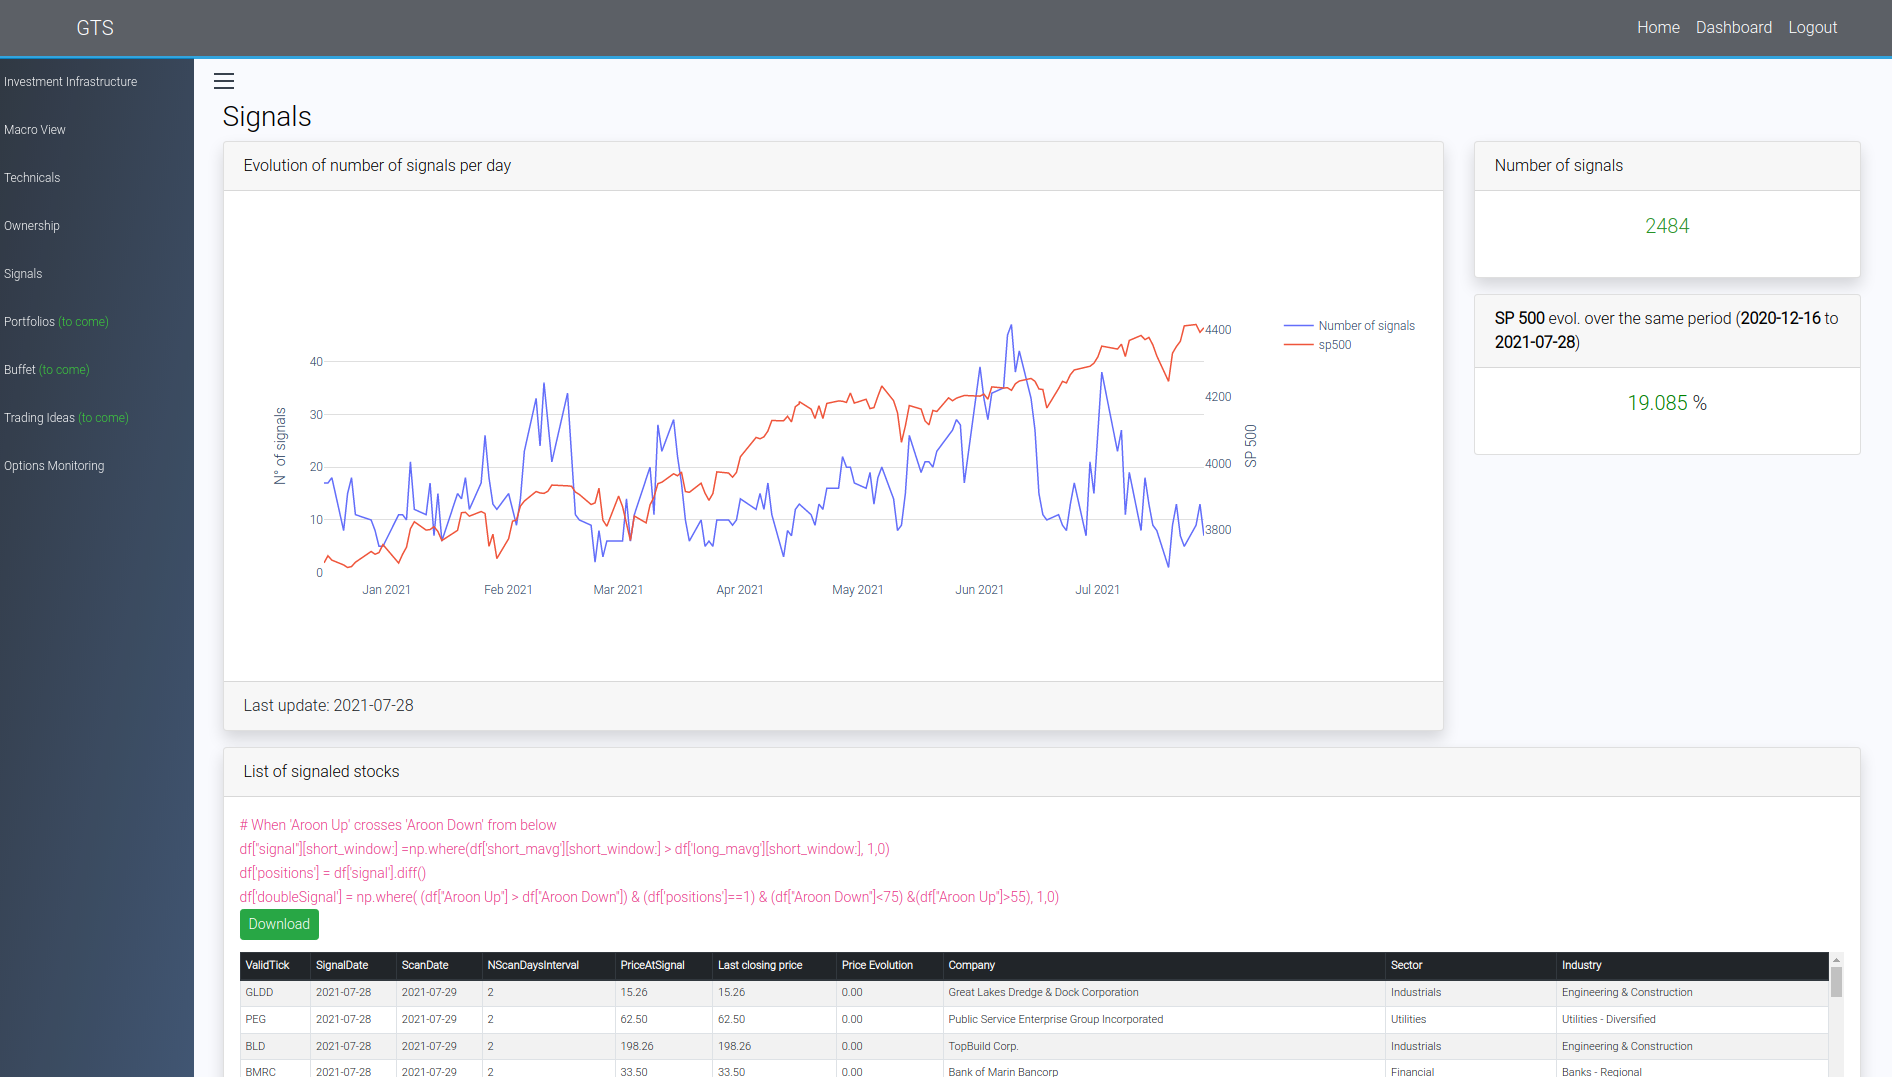
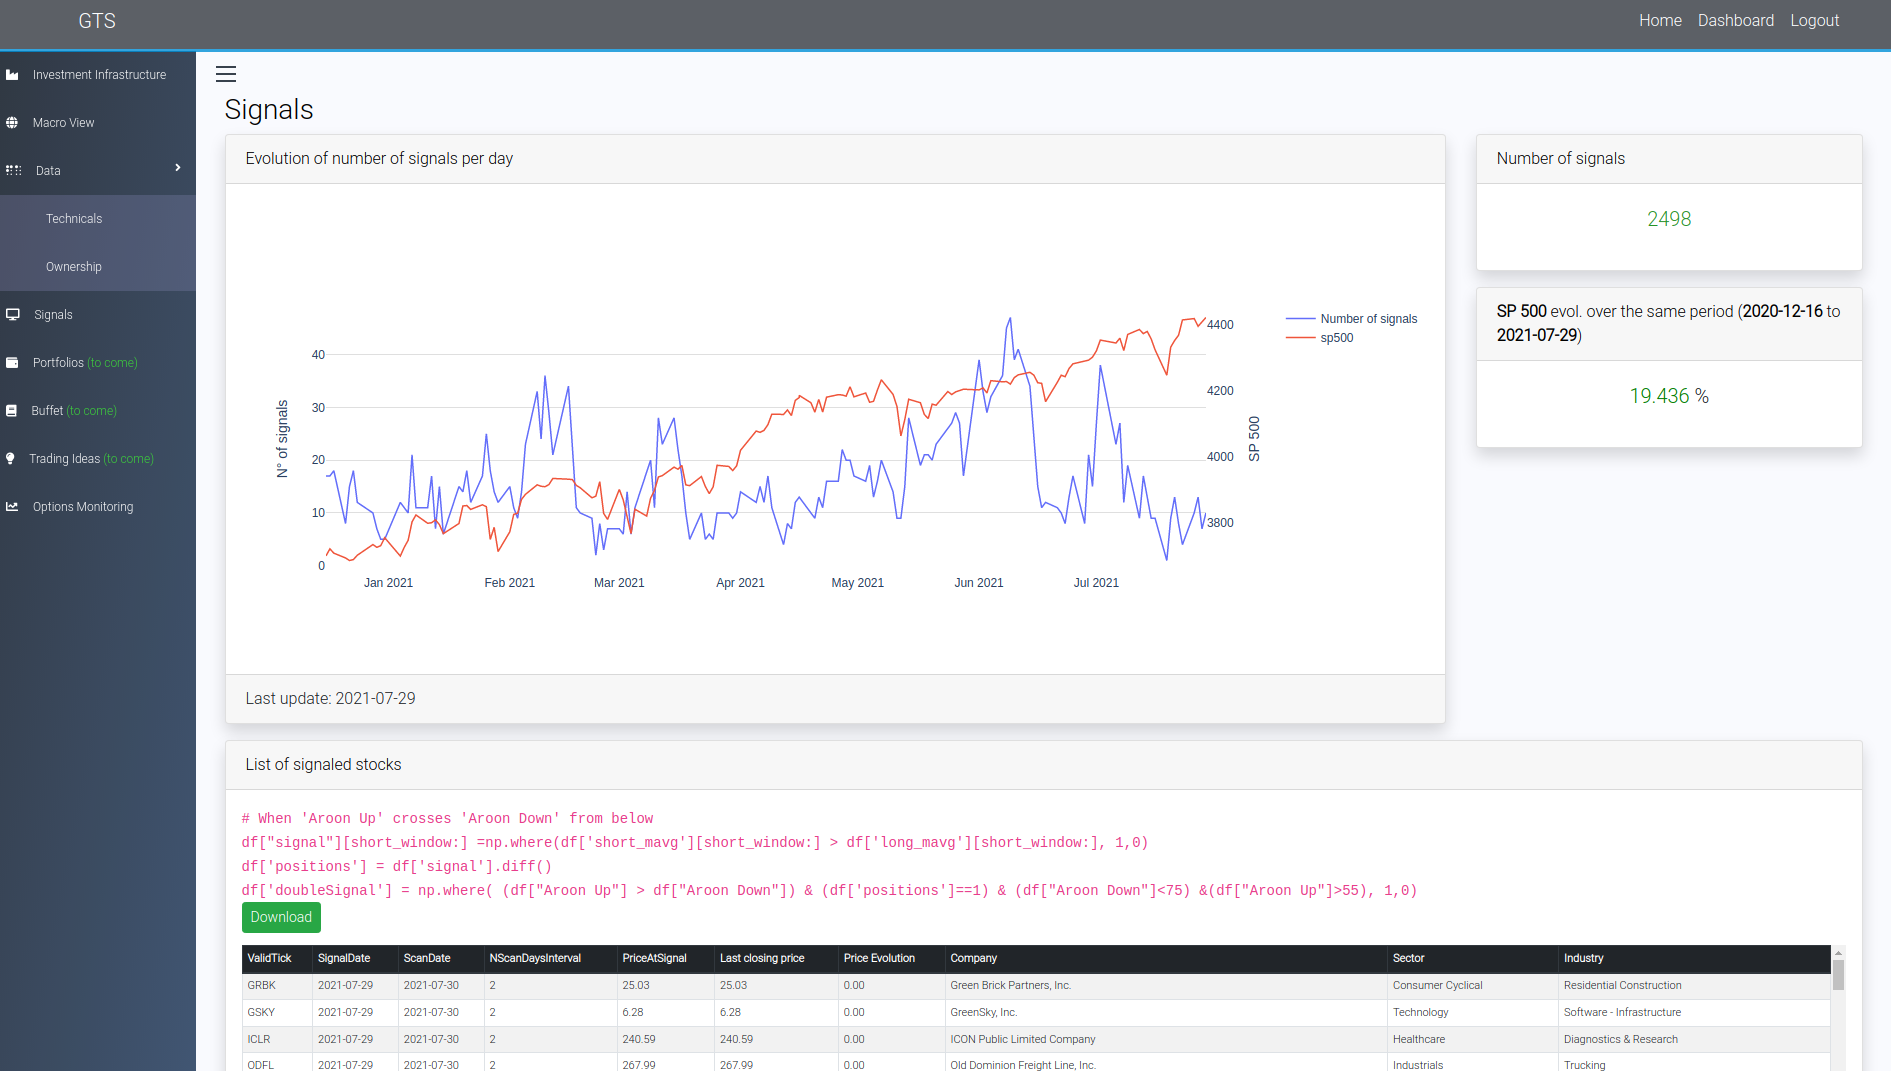
menu design

diff --git a/SV/static/css/style_dashboard.css b/SV/static/css/style_dashboard.css
@@ -1,10 +1,18 @@
+
+@font-face{
+  src: url(../fonts/Roboto-Light.ttf);
+  font-family: Roboto;
+}
+
+
 * {
   margin:0px;
   padding:0px;
   box-sizing:border-box;
+  font-family: Roboto;
 }
 
-#sidebar {
+#side-bar {
   position: fixed;
   /* top: 57px; */
   bottom: 0px;
@@ -16,16 +24,16 @@
   transition: all 300ms linear;
 }
 
-#sidebar.active {
+#side-bar.active {
   left:0px;
 }
 
-#sidebar .toggle-btn {
+#side-bar .toggle-btn {
   position:absolute;
   left:220px;
   top:10px;
 }
-#sidebar .toggle-btn span {
+#side-bar .toggle-btn span {
   display:block;
   width:20px;
   height: 2px;
@@ -35,14 +43,46 @@
 }
 
 
-#sidebar div.list div.item a{
+#side-bar div.menu div.item i{
+  margin-right: 15px;
+}
+
+
+#side-bar div.menu div.item a{
   display: block;
   padding:15px 10px;
   color:#ffffff;
   font-size:12px;
   text-decoration: none;
-  
 }
+
+
+
+#side-bar div.menu div.sub-menu{
+  background: rgba(130, 133, 182, 0.281);
+  width: 100%;
+  display: none;
+}
+
+
+#side-bar div.menu div.sub-menu a{
+  padding-left: 50px;
+}
+
+#side-bar div.menu div.sub-item a{
+  display: block;
+  padding:15px 10px;
+  color:#ffffff;
+  font-size:12px;
+  text-decoration: none;
+}
+
+
+#side-bar div.menu div.item a .dropdown{
+  position: absolute;
+  right: 0%;
+}
+
 
 a { color: #ffffff; 
   display: block;
@@ -50,7 +90,7 @@ a { color: #ffffff;
   text-decoration: none;
 } 
 
-#sidebar div.list div.item:hover {
+#side-bar div.menu div.item a:hover {
     text-decoration: none;
     color: #fff;
     background: rgba(255, 255, 255, 0.2);

diff --git a/SV/templates/table.html b/SV/templates/table.html
@@ -5,9 +5,7 @@
   <link href="../static/css/style_table.css" rel="stylesheet" type="text/css">
   <title>GTS-Table</title>
   <script src="https://cdn.plot.ly/plotly-latest.min.js"></script>
-  <script src="https://cdnjs.cloudflare.com/ajax/libs/d3/3.5.6/d3.min.js"></script>
   <meta name="viewport" content="width=device-width,height=device-height,initial-scale=1.0"/>
-
 </head>
 
 <body id="Table_page" style="background-color: #F9FAFE;">
@@ -29,9 +27,6 @@
         </script> 
       </div>
   </div>  <!--BODY-->
-
-
-
   <div class="card-footer">
     Last update: {{spEND}}
   </div><!--FOOTER-->
@@ -53,7 +48,7 @@
   </div><!--CARD-->
 
 
-  <div class="card">
+  <div class="card mb-3 shadow bg-white rounded">
     <div class="card-header">
       <b>SP 500</b> evol. over the same period
       (<strong>{{spSTART}}</strong> to <strong>{{spEND}}</strong>)
@@ -183,11 +178,6 @@ Therefore, the most convincing signals are those which are going to be contraria
 
 </body>
 
-{%if changeSig%}
-
-<script type="text/javascript" src="../static/JS/table.js"></script>
-{%else%}
-{% endif %}
 
 {% include "base_dashboard.html" %}
 

diff --git a/SV/templates/base.html b/SV/templates/base.html
@@ -8,7 +8,9 @@
     <link href="/static/css/style_base.css" rel="stylesheet" type="text/css">
     <link href="../static/bootstrap/bootstrap.css" rel="stylesheet" type="text/css">
     <link href="../static/JS/bootstrap/bootstrap.js" rel="stylesheet" type="text/css">
-
+    <link rel="stylesheet" href="https://cdnjs.cloudflare.com/ajax/libs/font-awesome/5.15.1/css/all.min.css">
+    <script src="https://cdnjs.cloudflare.com/ajax/libs/jquery/3.5.1/jquery.min.js" charset="utf-8"></script>
+   
     <title>Get the signals.</title>
 </head>
 
@@ -47,10 +49,6 @@
             </div>
         </nav>
 
-        <script src="https://code.jquery.com/jquery-3.3.1.slim.min.js" integrity="sha384-q8i/X+965DzO0rT7abK41JStQIAqVgRVzpbzo5smXKp4YfRvH+8abtTE1Pi6jizo"
-        crossorigin="anonymous"></script>
-        <script src="https://cdnjs.cloudflare.com/ajax/libs/popper.js/1.14.3/umd/popper.min.js" integrity="sha384-ZMP7rVo3mIykV+2+9J3UJ46jBk0WLaUAdn689aCwoqbBJiSnjAK/l8WvCWPIPm49"
-            crossorigin="anonymous"></script>
   
         {% block content %}
         {% endblock %}

diff --git a/SV/static/JS/dashboard.js b/SV/static/JS/dashboard.js
@@ -1,8 +1,17 @@
 function toggleSidebar(ref){
-  document.getElementById("sidebar").classList.toggle('active');
+  document.getElementById("side-bar").classList.toggle('active');
 }
 
 toggleSidebar();
+
+
+$(document).ready(function(){
+    //jquery for toggle sub menus
+    $('.sub-btn').click(function(){
+      $(this).next('.sub-menu').slideToggle();
+    });
+});
+
 
 
 

diff --git a/SV/static/css/style_ownership.css b/SV/static/css/style_ownership.css
@@ -45,13 +45,7 @@
     font-family: Roboto;
   }
   
-  
-  html *
-  {
-     font-family: Roboto !important;
-  }
-  
+
   h3 {
     color:rgba(0, 132, 255, 0.952) !important;
-    font-family: Roboto;
   } 

diff --git a/SV/templates/investInfra.html b/SV/templates/investInfra.html
@@ -7,10 +7,10 @@
 </head>
 
 <body id="investInfra_page" style="background-color: #F9FAFE;">
+
 <h3>A methodic investment infrastructure</h3>
 
   
-
 <div class="card mb-3 shadow bg-white rounded">
 
 
